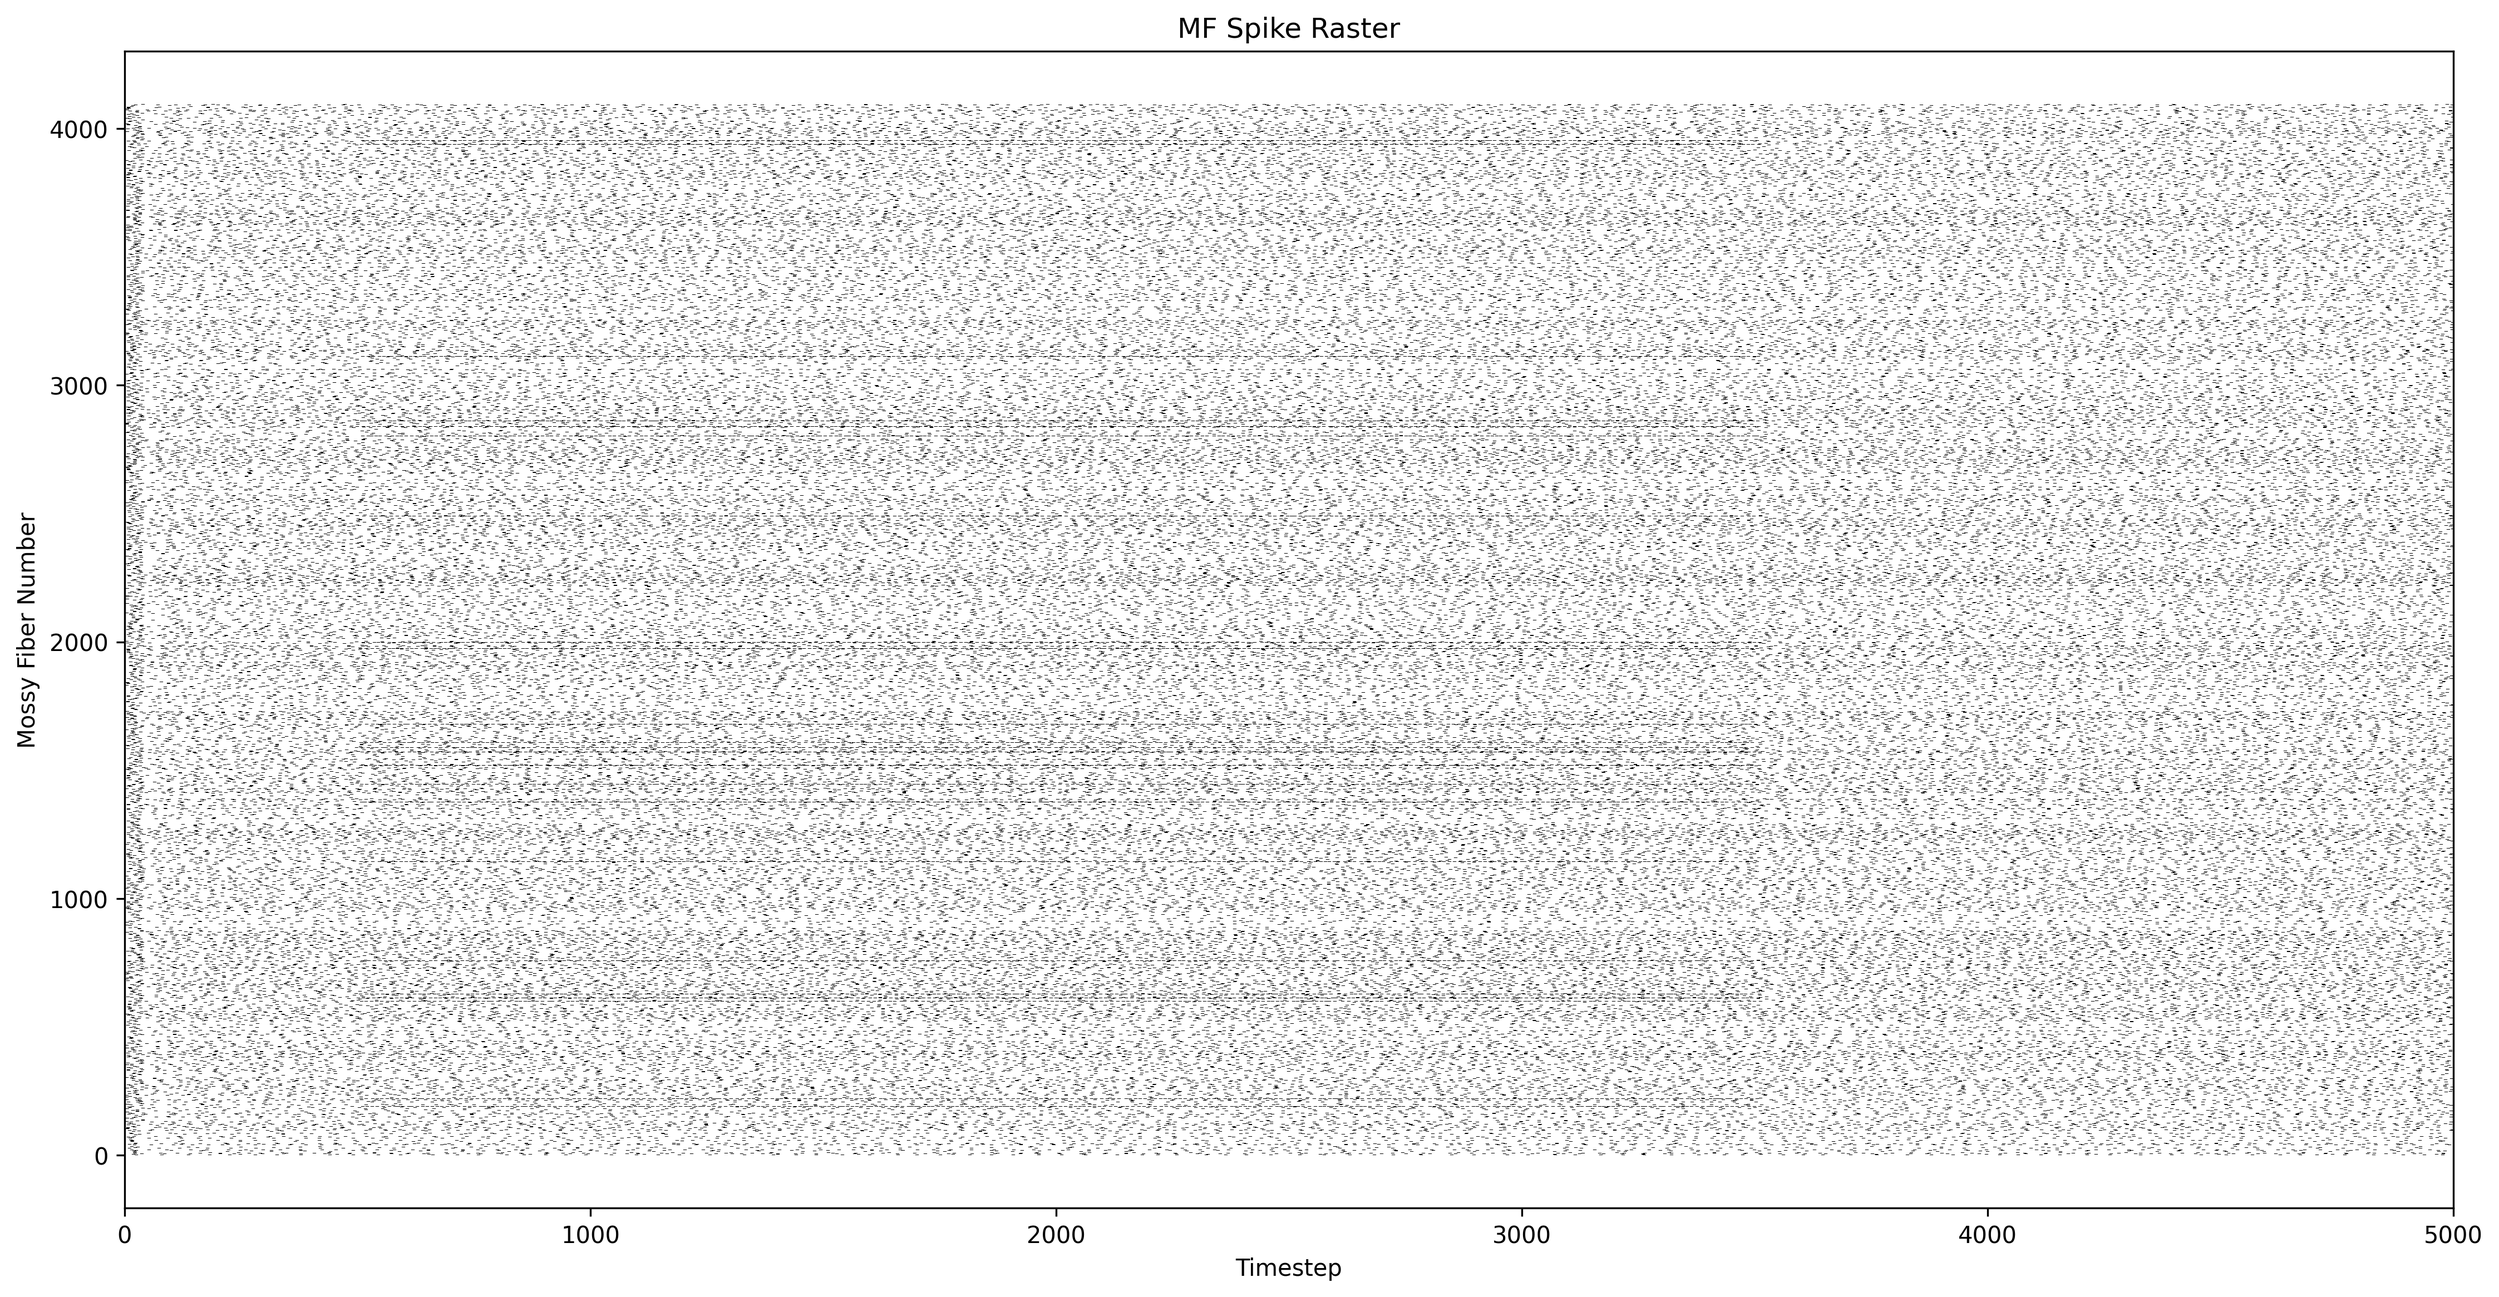
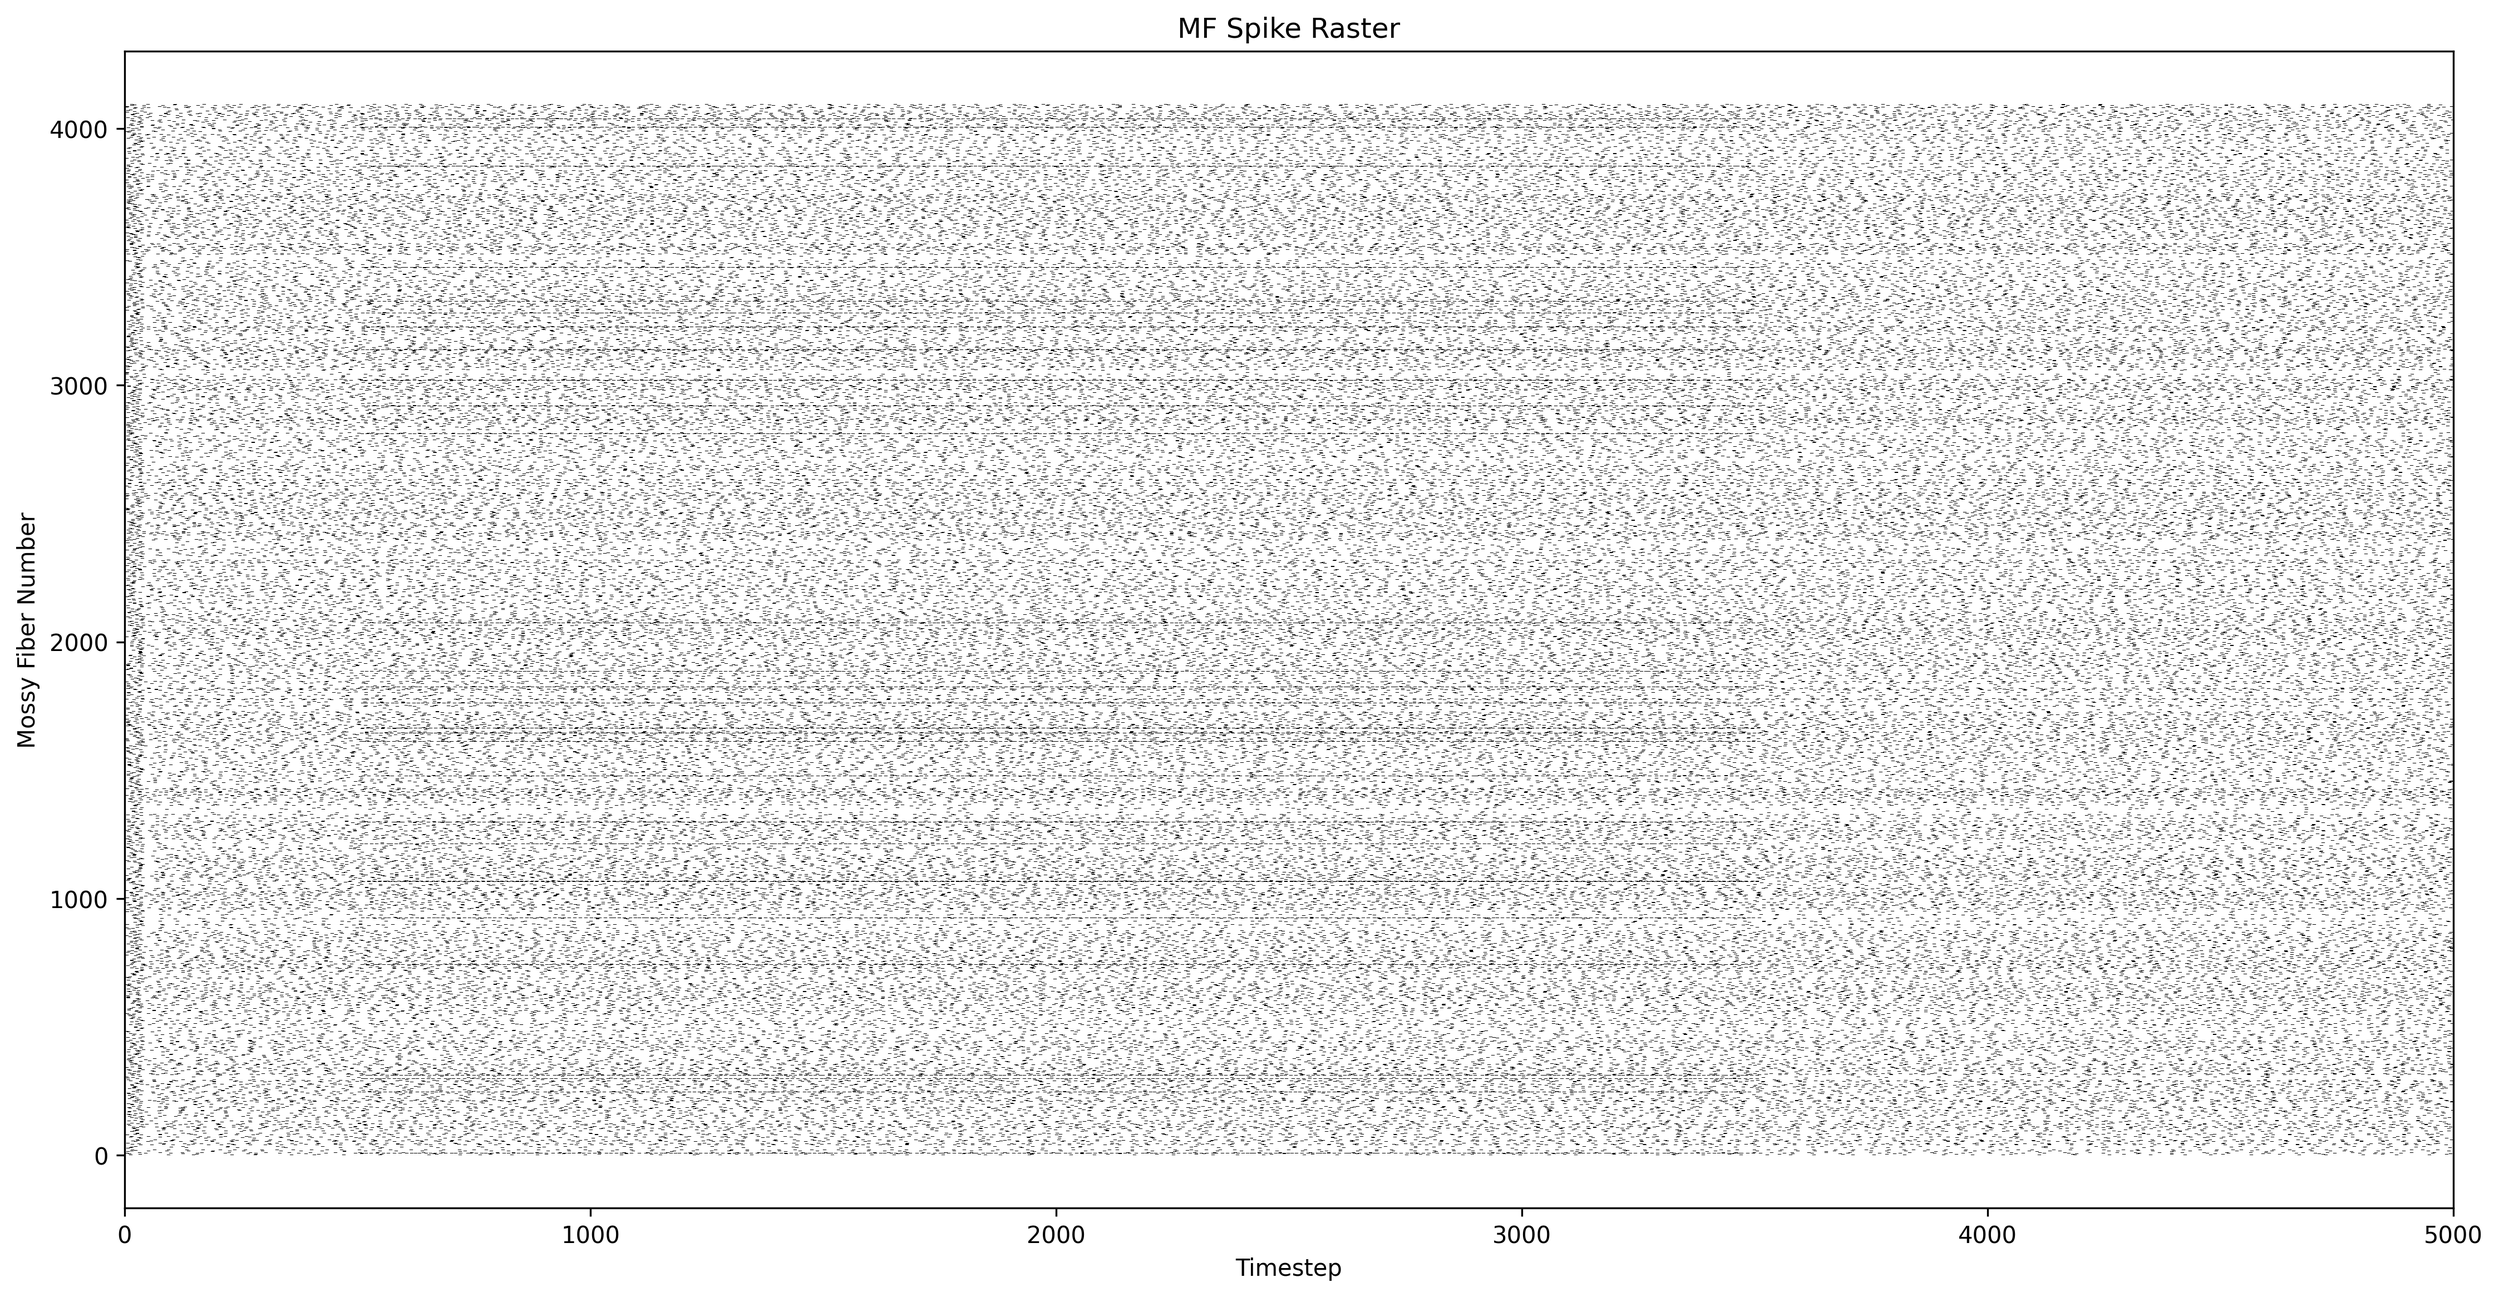
ran experiments with each synapse having plasticity

Changed region(s): [[0.0312, 0.0927, 0.9976, 0.8958]]

diff --git a/run/MFGoGrFunctions.py b/run/MFGoGrFunctions.py
@@ -211,35 +211,54 @@ class Golgi(): # class of Golgi cells, entire network of Golgi cells
     # def update_input_activity(self, connectArr, inputArrayChoice, mfAct = None, t = None, grAct = None):
     def update_input_activity(self, connectArr, inputArrayChoice, mfAct = None, t = None, grAct = None):
         ''' inputArrayChoice selects between 1 = MFGO, 2 = GOGO, 3 = GRGO'''
-        # MFGO
+        ### Playground version, adapt to the main code
+
+        # MFGO - faster, so kept
         if inputArrayChoice == 1:
             self.mf_input = 1
-            mfAct[0] = 0 # hardcode to 0 for optimization
-            self.inputMFGO = np.sum(mfAct[connectArr], axis = 1)
-        # GOGO
+            goInputs = np.zeros(self.numGolgi, dtype = np.uint8)
+            spiked_idx = np.where(mfAct)[0]
+            for mf in spiked_idx:
+                goInputs[connectArr[mf, :]] += 1
+            self.inputMFGO = goInputs
+            # mfAct[0] = 0 # hardcode to 0 for optimization
+            # self.inputMFGO = np.sum(mfAct[connectArr], axis = 1)
+        
         if inputArrayChoice == 2:
             self.go_input = 1
-            spike_mask = (self.act[t] == 1)
-            spiked_idx = np.where(spike_mask)[0]
-            # get connections for each spiked cell
-            spiked_connections = []
-            for cell in spiked_idx:
-                # eliminate -1 terminator
-                valid_idx = connectArr[cell] != -1
-                valid_conns = connectArr[cell, valid_idx]
-                spiked_connections.extend(valid_conns)
-            # use bincount to count occurrances of target idx
-            spiked_connections = np.array(spiked_connections, dtype=int)
-            # count occurances of each index
-            counts = np.bincount(spiked_connections)
-            # add to input array
-            self.inputGOGO[:len(counts)] = counts
+            goInputs = np.zeros(self.numGolgi, dtype = np.uint8)
+            spiked_idx = np.where(self.act[t])[0]
+            for go in spiked_idx:
+                goInputs[connectArr[go, :]] += 1
+            self.inputGOGO = goInputs
+        # # GOGO
+        # if inputArrayChoice == 2:
+        #     spike_mask = (self.act[t] == 1)
+        #     spiked_idx = np.where(spike_mask)[0]
+        #     # get connections for each spiked cell
+        #     spiked_connections = []
+        #     for cell in spiked_idx:
+        #         # eliminate -1 terminator
+        #         valid_idx = connectArr[cell] != -1
+        #         valid_conns = connectArr[cell, valid_idx]
+        #         spiked_connections.extend(valid_conns)
+        #     # use bincount to count occurrances of target idx
+        #     spiked_connections = np.array(spiked_connections, dtype=int)
+        #     # count occurances of each index
+        #     counts = np.bincount(spiked_connections)
+        #     # add to input array
+        #     self.inputGOGO[:len(counts)] = counts
         # GRGO
         if inputArrayChoice == 3: 
             self.gr_input = 1
-            # Version 1 
-            grAct[0] = 0 # hardcode to 0 for optimization
-            self.inputGRGO = np.sum(grAct[connectArr], axis = 1)
+            goInputs = np.zeros(self.numGolgi, dtype = np.uint8)
+            spiked_idx = np.where(grAct)[0]
+            for gr in spiked_idx:
+                goInputs[connectArr[gr,:]] += 1
+            self.inputGRGO = goInputs
+            # # Version 1 
+            # grAct[0] = 0 # hardcode to 0 for optimization
+            # self.inputGRGO = np.sum(grAct[connectArr], axis = 1)
 
     def get_act(self):
         return self.act
@@ -270,18 +289,18 @@ class Granule():
         ##### Plasticity
         self.GPU_mfgr_plast = cp.uint8(mfgr_plast)
         self.GPU_gogr_plast = cp.uint8(gogr_plast)
-        self.GPU_plast_ratio = cp.float32(1/10000) # LTP / LTD, 0.1 Hz
+        self.plast_ratio = 1/10000 # LTP / LTD, 0.1 Hz
         self.GPU_mfgr_LTD_inc = cp.float32(1/1000 * mfgr_weight * -1)
-        self.GPU_mfgr_LTP_inc = cp.float32(self.plast_ratio * self.mfgr_LTD_inc) # negative due to computation
+        self.GPU_mfgr_LTP_inc = cp.float32(self.plast_ratio * self.GPU_mfgr_LTD_inc) # negative due to computation
         self.GPU_gogr_LTD_inc = cp.float32(1/1000 * gogr_weight * -1)
-        self.GPU_gogr_LTP_inc = cp.float32(self.plast_ratio * self.gogr_LTD_inc)
+        self.GPU_gogr_LTP_inc = cp.float32(self.plast_ratio * self.GPU_gogr_LTD_inc)
         self.GPU_mf_input = cp.uint8(0) 
         self.GPU_go_input = cp.uint8(0)
 
 
         ### Arrays
-        self.mfgrW = np.full(self.numGranule, mfgr_weight, dtype = float) # synaptic weight of mossy fiber to granule
-        self.gogrW = np.full(self.numGranule, gogr_weight, dtype = float) # synaptic weight of mossy fiber to granule 
+        self.mfgrW = np.full(self.numGranule, mfgr_weight, dtype = np.float32) # synaptic weight of mossy fiber to granule
+        self.gogrW = np.full(self.numGranule, gogr_weight, dtype = np.float32) # synaptic weight of mossy fiber to granule 
         self.Vm = np.full(self.numGranule, self.eLeak, dtype = np.float32) # membrane potential of Granule cells, initialized to leak reversal potential
         self.gSum_MFGR = np.zeros(self.numGranule, dtype = np.float32) # sum of excitatory conductances from MF to Granule
         self.inputMFGR = np.zeros(self.numGranule, dtype = np.uint8) # input excit
@@ -301,7 +320,7 @@ class Granule():
         unsigned char *inputGOGR, float *GPU_gSum_GOGR, float *GPU_gNMDA_Inc_MFGR, float *GPU_gNMDA_MFGR, float *GPU_currentThresh, float *GPU_mfgrW, 
         float GPU_g_decay_MFGR, float *GPU_gogrW, float GPU_gGABA_decayGOGR, float GPU_g_decay_NMDA_MFGR, float GPU_gDirectInc_MFGR,
         float GPU_threshRest, float GPU_threshDecGR, float GPU_eLeak, float GPU_eGOGR, unsigned char *GPU_spike_mask, float GPU_gogr_LTD_inc, float GPU_gogr_LTP_inc, 
-        float GPU_mfgr_LTD_inc, float GPU_mfgr_LTP_inc, uint8 GPU_go_input, uint8 GPU_mf_input, uint8 GPU_mfgr_plast, uint8 GPU_gogr_plast){
+        float GPU_mfgr_LTD_inc, float GPU_mfgr_LTP_inc, unsigned char GPU_go_input, unsigned char GPU_mf_input, unsigned char GPU_mfgr_plast, unsigned char GPU_gogr_plast){
             int idx = threadIdx.x + blockIdx.x * blockDim.x;
             if (idx >= size) return;
             GPU_gLeak[idx] = (0.0000001021370733 * GPU_Vm[idx] * GPU_Vm[idx] * GPU_Vm[idx] * GPU_Vm[idx]) + 
@@ -314,9 +333,9 @@ class Granule():
             (0.0151 * GPU_Vm[idx]) + 0.7713
             );
 
-            GPU_gSum_MFGR[idx] = inputMFGR[idx] * GPU_mfgrW + GPU_gSum_MFGR[idx] * GPU_g_decay_MFGR; 
+            GPU_gSum_MFGR[idx] = inputMFGR[idx] * GPU_mfgrW[idx] + GPU_gSum_MFGR[idx] * GPU_g_decay_MFGR; 
             
-            GPU_gSum_GOGR[idx] = inputGOGR[idx] * GPU_gogrW + GPU_gSum_GOGR[idx] * GPU_gGABA_decayGOGR;
+            GPU_gSum_GOGR[idx] = inputGOGR[idx] * GPU_gogrW[idx] + GPU_gSum_GOGR[idx] * GPU_gGABA_decayGOGR;
 
             GPU_gNMDA_MFGR[idx] = GPU_gNMDA_Inc_MFGR[idx] * GPU_gDirectInc_MFGR * inputMFGR[idx] + GPU_gNMDA_MFGR[idx] * 0.9672;
 
@@ -327,8 +346,8 @@ class Granule():
 
             GPU_spike_mask[idx] = (GPU_Vm[idx] > GPU_currentThresh[idx]) ? 1 : 0;
 
-            GPU_gogrW = GPU_gogrW + GPU_gogr_plast * (GPU_go_input * ((GPU_spike_mask[idx] * GPU_gogr_LTD_inc) + ((GPU_spike_mask[idx] - 1) * GPU_gogr_LTP_inc));
-            GPU_mfgrW = GPU_mfgrW + GPU_mfgr_plast * (GPU_mf_input * ((GPU_spike_mask[idx] * GPU_mfgr_LTD_inc) + ((GPU_spike_mask[idx] - 1) * GPU_mfgr_LTP_inc));
+            GPU_gogrW[idx] = GPU_gogrW[idx] + GPU_gogr_plast * (GPU_go_input * ((GPU_spike_mask[idx] * GPU_gogr_LTD_inc) + ((GPU_spike_mask[idx] - 1) * GPU_gogr_LTP_inc)));
+            GPU_mfgrW[idx] = GPU_mfgrW[idx] + GPU_mfgr_plast * (GPU_mf_input * ((GPU_spike_mask[idx] * GPU_mfgr_LTD_inc) + ((GPU_spike_mask[idx] - 1) * GPU_mfgr_LTP_inc)));
 
             GPU_mf_input = 0;
             GPU_go_input = 0;
@@ -372,36 +391,64 @@ class Granule():
     # generic function for updating GOGR and MFGR input arrays
     def update_input_activity(self, connectArr, inputArrayChoice, mfAct = None, goAct = None):
         ''' inputArrayChoice selects between 1 = MFGR, 2 = GOGR '''
-        ## MF input update
+        #### Playground version, adapt to main code
         if inputArrayChoice == 1:
             self.GPU_mf_input = cp.uint8(1) 
-            spike_mask = (mfAct == 1)
-        elif inputArrayChoice == 2:
+            grInputs = np.zeros(self.numGranule, dtype = np.uint8) # array that stores how many inputs each gr gets
+            MFdiverge = int((self.numGranule * 5)/4096) # how many gr each MF connects to  <-- where is this used lmao
+            spiked_idx = np.where(mfAct)[0]
+            # print(spiked_idx)
+            for mf in spiked_idx: # for every MF that spikes, this can be done in parallel
+            # Important here
+                grInputs[connectArr[mf, :]] += 1 # for each active MF, update each gr listed in its row by 1
+
+            # Vectorized below
+            # np.add.at(grInputs, connectArr[spiked_idx, :].ravel(), 1)
+            self.inputMFGR = grInputs
+
+        ### THIS VERSION IS ACTUALLY SLOWER
+        # if inputArrayChoice == 2: 
+        #     spiked_idx = np.where(goAct)[0]
+        #     for go in spiked_idx: # for every GO that spikes
+        #         grInputs[connectArr[go, :]] += 1
+        #     # Vectorized below
+        #     # np.add.at(grInputs, connectArr[spiked_idx, :].ravel(), 1)
+        #     self.inputGOGR = grInputs
+
+
+        # Version 1
+        # ## MF input update
+        # if inputArrayChoice == 1:
+        #     spike_mask = (mfAct == 1)
+        if inputArrayChoice == 2:
             self.GPU_go_input = cp.uint8(1) 
             spike_mask = (goAct == 1)
-
-        spiked_idx = np.where(spike_mask)[0]
-        # get connections for all spiked cells
-        spiked_connections = [] # list to hold connections for all spiked MFs
-        for cell in spiked_idx:
-            # eliminate -1 terminator
-            valid_idx = connectArr[cell] != -1
-            # get valid connections for spiked cell
-            valid_conns = connectArr[cell, valid_idx]
-            # add to list
-            spiked_connections.extend(valid_conns)
-        spiked_connections = np.array(spiked_connections, dtype = int) # convert list to
-        counts = np.bincount(spiked_connections) # count occurrences of each index in spiked_connections
-        
-        if inputArrayChoice == 1:
-            # add to MFGR input
-            self.inputMFGR[:len(counts)] = counts # update inputMFGR with counts, only up to length of counts to avoid index error
-        elif inputArrayChoice == 2:
-            # add to GOGR input
+            spiked_idx = np.where(spike_mask)[0]
+            # get connections for all spiked cells
+            spiked_connections = [] # list to hold connections for all spiked MFs
+            for cell in spiked_idx:
+                # eliminate -1 terminator
+                valid_idx = connectArr[cell] != -1
+                # get valid connections for spiked cell
+                valid_conns = connectArr[cell, valid_idx]
+                # add to list
+                spiked_connections.extend(valid_conns)
+            spiked_connections = np.array(spiked_connections, dtype = int) # convert list to
+            counts = np.bincount(spiked_connections) # count occurrences of each index in spiked_connections
             self.inputGOGR[:len(counts)] = counts # update inputGOGR with counts, only up to length of counts to avoid index error
+        
+        # if inputArrayChoice == 1:
+        #     # add to MFGR input  
+        #     self.inputMFGR[:len(counts)] = counts # update inputMFGR with counts, only up to length of counts to avoid index error
+        # elif inputArrayChoice == 2:
+            # add to GOGR input
+            
+
 
     def do_Granule(self, t): # t for MF output, golgi for Golgi activity
         self.act[t] = self.doGRGPU() # convert boolean array to int array,
+        # print(t, ":", np.mean(self.GPU_gogrW))
+        # print(t, ":", np.sum(self.act[t]))
         # reset inputs
         self.inputMFGR.fill(0)
         self.inputGOGR.fill(0)
@@ -428,3 +475,4 @@ class Granule():
             self.eLeak = cp.asnumpy(self.GPU_eLeak)
             self.eGOGR = cp.asnumpy(self.GPU_eGOGR)
     
+

diff --git a/run/control.py b/run/control.py
@@ -3,7 +3,8 @@ import cupy as cp
 import os
 import time
 
-import playground_MFGOGRFunctions as mfgogr
+import MFGoGrFunctions as mfgogr
+# import playground_MFGOGRFunctions as mfgogr
 import importConnect as connect
 import WireFunctions
 
@@ -29,11 +30,13 @@ def run_session(recip, filepath_m, filepath_go, filepath_gr, conv, grgoW = 0.000
     MFrasters = np.zeros((numBins, numMF), dtype = np.uint8)
 
     # # Init GO class
-    GO = mfgogr.Golgi(numGO, CSon, CSoff, useCS, numBins, mfgo_plast = 0, gogo_plast = 0, grgo_plast = 1, gogo_weight = gogoW, mfgo_weight = mfgoW, grgo_weight = grgoW)
+    GO = mfgogr.Golgi(numGO, CSon, CSoff, useCS, numBins, mfgo_plast = MFGO_PLAST, gogo_plast = GOGO_PLAST, grgo_plast = GRGO_PLAST, gogo_weight = gogoW, mfgo_weight = mfgoW, grgo_weight = grgoW)
+    # GO = mfgogr.Golgi(numGO, CSon, CSoff, useCS, numBins, gogo_weight = gogoW, mfgo_weight = mfgoW, grgo_weight = grgoW) # playground version
     GOrasters = np.zeros((numTrial, numBins, numGO), dtype = np.uint8)
 
     # # Init GR class
-    GR = mfgogr.Granule(numGR, CSon, CSoff, useCS, numBins, mfgr_plast = 0, gogr_plast = 0)
+    GR = mfgogr.Granule(numGR, CSon, CSoff, useCS, numBins, mfgr_plast = MFGR_PLAST, gogr_plast = GOGR_PLAST)
+    # GR = mfgogr.Granule(numGR, CSon, CSoff, useCS, numBins) # playground version
     GRrasters = np.zeros((numTrial, numBins, numGR), dtype = np.uint8)
     print("Objects initialized.")
 
@@ -202,10 +205,15 @@ numBins =  5000 # 5000
 useCS = 1
 CSon, CSoff = 500, 3500
 numTrial = 1 # 150
+MFGO_PLAST = 0
+GOGO_PLAST = 0
+GRGO_PLAST = 0
+MFGR_PLAST = 0
+GOGR_PLAST = 1
 
 # saving to hard drive
 saveDir = '/home/data/einez'
-expName = 'MFGoGr_full'
+expName = 'MFGoGr_gogrplast_full'
 
 # Save Rasters
 saveGORaster = True

diff --git a/Analyze/new_plot_raster.py b/Analyze/new_plot_raster.py
@@ -113,10 +113,10 @@ def downsample_granule_cells_only(raster, max_cells=10000):
     return raster[:, ::downsample_factor]
 
 # Load the raster data
-raster_data = np.load('/home/data/einez/MFGoGr_full_MFrasters.npy')
+raster_data = np.load('/home/data/einez/MFGoGr_gogrplast_full_GOrasters.npy')
 
 # Define save location
-plot_save_path = "/home/aw39625/minisim/Results/Eventplot_MFGoGr_full_MFrasters.png"
+plot_save_path = "/home/aw39625/minisim/Results/Eventplot_MFGoGr_gogrplast_full_GOrasters.png"
 
 # Show and save
-showRasters(raster_data, save_path=plot_save_path, raster_type = 1)
+showRasters(raster_data, save_path=plot_save_path, raster_type = 2)
